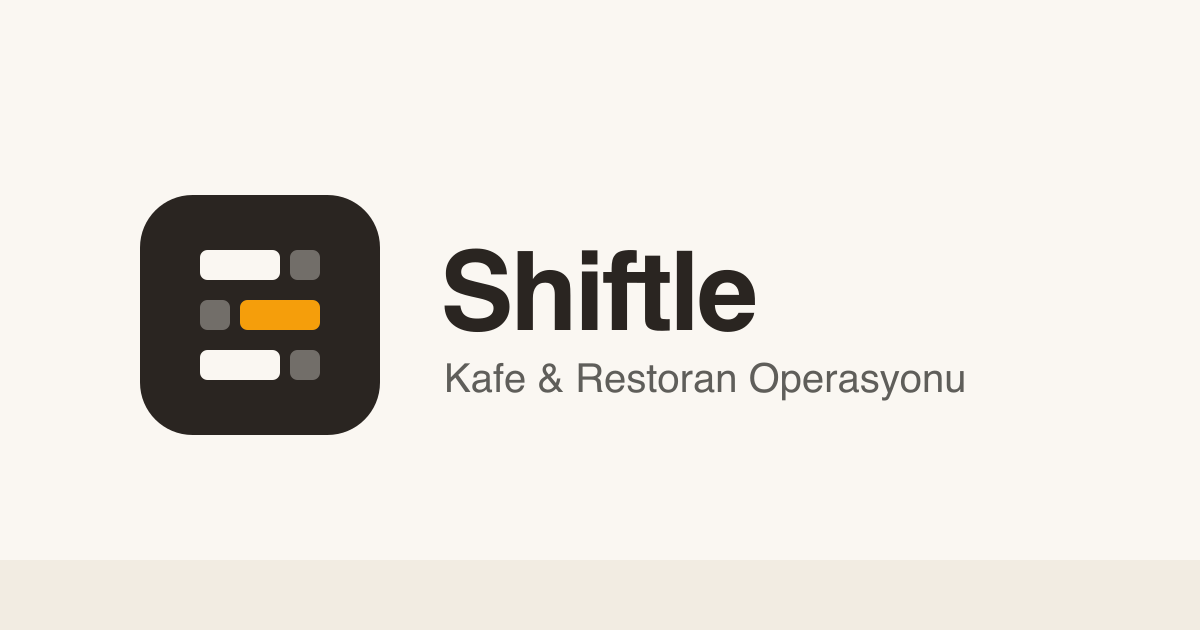
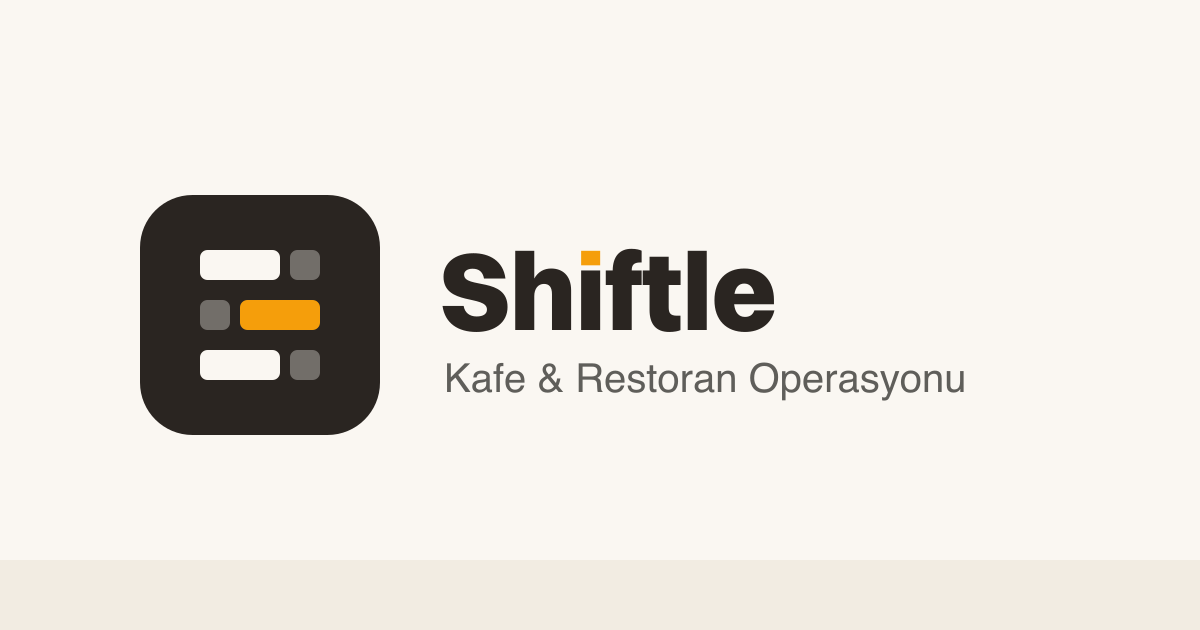
feat: outline wordmark (Shiftle path) + OG ayni path'ten — Switzer'e bagimlilik kalkti (marketing)

Changed region(s): [[0.37, 0.3921, 0.6475, 0.5429]]

diff --git a/marketing/components/Wordmark.tsx b/marketing/components/Wordmark.tsx
@@ -1,13 +1,35 @@
-// Shiftle wordmark — "Shiftle" TEK kesintisiz akış (boşluksuz), fontun kendi kerningi.
+// Shiftle wordmark — Switzer-Extrabold "Shiftle" OUTLINE path'e donduruldu (fonta bağımsız).
 //
-// GEÇİCİ hali: `.font-brand` sınıfı (globals.css) marka fontu bağlanana kadar Plus Jakarta
-// Sans'a düşer; sıkı tracking (-0.02em) sınıfta. Marka fontu (Switzer) `next/font/local`
-// ile --font-brand'e bağlanınca bu span otomatik onu kullanır — kod değişmez.
+// Neden: (a) her cihazda birebir aynı görünür (Switzer FOUT/eksikliği etkilemez),
+// (b) link önizleme görseli (OG, gen-icons.mjs) aynı path'ten beslenir → site ve paylaşım
+// kartı tutarlı, (c) `web/` de outline'a geçince Switzer tümden silinebilir (ayrı tur).
 //
-// Sonraki cila (brief §1.2): "Shiftle"yi outline SVG path olarak dondur → "i" noktası ayrı
-// <path> olur, amber (#f59e0b) boyanır; kerning fonttan bağımsız birebir sabitlenir. O gelince
-// bu <span> outline SVG ile değişecek. Şimdilik i-noktası amber DEĞİL (elle bölme kerningi
-// bozup "Sh|ftle" boşluğu açıyordu — brief'in uyardığı tuzak).
+// Path'ler Switzer-Extrabold.woff2'den fonttools ile çıkarıldı: "Shiftle" tek kesintisiz
+// akış (advance toplamı 3062em, kerning fontun kendi metriğinde pişmiş — elle <span>'a bölünmedi,
+// o "Sh|ftle" boşluğu açardı). i-noktası (tittle) ayrı kontur olarak izole edilip amber boyandı.
+//
+// viewBox yüksekliği tam 1em (1000 upm) → `height:1em` cap-height'ı 0.694em render eder,
+// yani eski `text-xl` span'iyle birebir aynı boyut. Gövde `currentColor` (className'deki
+// text-ink / text-white'ı miras alır — Nav açık zemin, Footer koyu bant); nokta sabit amber.
+//
+// Kaynak/yeniden üretim: marketing/scripts/extract-wordmark not — path'ler statiktir, Switzer
+// değişmedikçe yeniden çıkarmaya gerek yok.
+const BODY_D =
+  "M219 -503C219 -536 250 -557 296 -557C355 -557 389 -528 400 -468H595C575 -629 448 -698 304 -698C130 -698 32 -604 32 -484C32 -218 427 -321 427 -186C427 -147 395 -123 333 -123C269 -123 225 -157 215 -219H23C45 -59 166 18 331 18C494 18 614 -66 614 -209C614 -486 219 -372 219 -503Z M684 0H857V-308C857 -375 892 -419 945 -419C993 -419 1018 -390 1018 -325V0H1192V-360C1192 -497 1112 -559 1011 -559C946 -559 892 -530 857 -468V-720H684Z M1283 0H1456V-541H1283Z M1507 -409H1570V0H1743V-409H1833V-541H1743C1743 -586 1757 -614 1821 -614H1833V-721C1817 -729 1785 -738 1740 -738C1634 -738 1571 -670 1570 -541H1507Z M1905 -182C1905 -53 1964 18 2084 18C2130 18 2167 10 2186 1V-130H2154C2091 -130 2079 -158 2079 -207V-409H2187V-541H2079V-666H1905V-541H1843V-409H1905Z M2252 0H2425V-720H2252Z M3040 -178H2858C2843 -137 2816 -119 2772 -119C2716 -119 2682 -159 2674 -234H3036V-272C3036 -450 2932 -559 2766 -559C2603 -559 2495 -454 2495 -270C2495 -92 2602 18 2772 18C2909 18 3012 -54 3040 -178Z M2766 -422C2814 -422 2845 -390 2856 -329H2677C2688 -390 2718 -422 2766 -422Z";
+const DOT_D = "M1283 -588H1456V-720H1283Z";
+
 export default function Wordmark({ className = "" }: { className?: string }) {
-  return <span className={`font-brand font-extrabold ${className}`}>Shiftle</span>;
+  return (
+    <svg
+      viewBox="0 -860 3062 1000"
+      role="img"
+      aria-label="Shiftle"
+      fill="currentColor"
+      className={className}
+      style={{ height: "1em", width: "auto", display: "inline-block" }}
+    >
+      <path d={BODY_D} />
+      <path d={DOT_D} fill="#f59e0b" />
+    </svg>
+  );
 }
